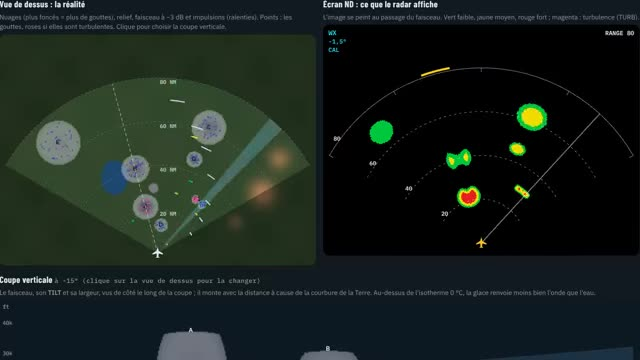
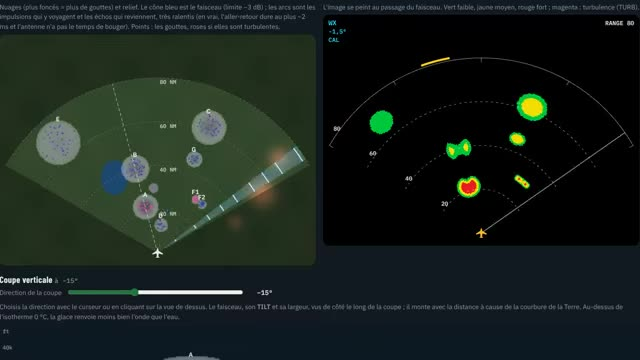
Radar météo : impulsions dans le faisceau, et passe de qualité
Les impulsions (ralenties) restaient derrière l'antenne, hors du
faisceau : elles suivent maintenant le faisceau actuel et leurs échos
viennent de ce qu'il éclaire. Faisceau seulement en émission (message en
STBY et TEST) ; curseur de direction de la coupe (clavier) ; noms des
cellules au-dessus d'elles ; coupe lisible en thème clair, faisceau
arrêté au sol ; carte de l'écho calculée 3 fois par seconde. Aperçu
refait.

Claude-Session: https://claude.ai/code/session_01JwBhEaeajJJxZP6WL7ckMR

diff --git a/radar-meteo.html b/radar-meteo.html
@@ -71,6 +71,8 @@ html.light .boitier{background:linear-gradient(180deg,#2a333b,#1b2228)}
 #plan{height:440px;border-radius:12px;background:#0b141b;cursor:crosshair}
 #nd{height:440px;border-radius:12px;background:#000}
 #coupe{height:300px;border-radius:12px;background:#0b141b}
+.coupe-reg{display:grid;grid-template-columns:auto 1fr auto;align-items:center;gap:10px;max-width:520px;margin:2px 0 8px;font-size:12.5px;color:var(--muted)}
+.coupe-reg input{accent-color:var(--c)}.coupe-reg output{font:600 12.5px var(--f-mono);color:var(--text);min-width:44px;text-align:right}
 .legende{display:flex;flex-wrap:wrap;gap:4px 14px;margin-top:6px;font-size:12.5px;color:var(--muted)}
 .legende i{display:inline-block;width:11px;height:11px;border-radius:3px;background:var(--k);margin-right:5px;vertical-align:-1px}
 .cartes{display:grid;grid-template-columns:repeat(auto-fit,minmax(min(100%,220px),1fr));gap:8px;margin-top:12px}
@@ -146,13 +148,14 @@ table.t td.n{font-family:var(--f-mono);text-align:right}
   </div>
 
   <div class="vues">
-    <div class="vue"><h3>Vue de dessus : la réalité</h3><p>Nuages (plus foncés = plus de gouttes), relief, faisceau à −3 dB et impulsions (ralenties). Points : les gouttes, roses si elles sont turbulentes. Clique pour choisir la coupe verticale.</p>
+    <div class="vue"><h3>Vue de dessus : la réalité</h3><p>Nuages (plus foncés = plus de gouttes) et relief. Le cône bleu est le faisceau (limite −3 dB) ; les arcs sont les impulsions qui y voyagent et les échos qui reviennent, très ralentis (en vrai, l'aller-retour dure au plus ~2 ms et l'antenne n'a pas le temps de bouger). Points : les gouttes, roses si elles sont turbulentes.</p>
       <canvas id="plan" aria-label="Vue de dessus : cellules orageuses, relief, faisceau et impulsions"></canvas></div>
     <div class="vue"><h3>Écran ND : ce que le radar affiche</h3><p>L'image se peint au passage du faisceau. Vert faible, jaune moyen, rouge fort ; magenta : turbulence (TURB).</p>
       <canvas id="nd" aria-label="Écran de navigation avec l'image radar"></canvas></div>
   </div>
   <div class="vue" style="margin-top:14px"><h3>Coupe verticale <span id="coupeLib" style="font:500 12px var(--f-mono);color:var(--muted)"></span></h3>
-    <p>Le faisceau, son <b>TILT</b> et sa largeur, vus de côté le long de la coupe ; il monte avec la distance à cause de la courbure de la Terre. Au-dessus de l'isotherme 0 °C, la glace renvoie moins bien l'onde que l'eau.</p>
+    <div class="coupe-reg"><span>Direction de la coupe</span><input type="range" id="coupeR" min="-60" max="60" step="1" value="-15" aria-label="Direction de la coupe verticale, en degrés"><output id="coupeV">−15°</output></div>
+    <p>Choisis la direction avec le curseur ou en cliquant sur la vue de dessus. Le faisceau, son <b>TILT</b> et sa largeur, vus de côté le long de la coupe ; il monte avec la distance à cause de la courbure de la Terre. Au-dessus de l'isotherme 0 °C, la glace renvoie moins bien l'onde que l'eau.</p>
     <canvas id="coupe" aria-label="Coupe verticale : avion, faisceau, cellules et relief"></canvas>
     <div class="legende"><span><i style="--k:#00c83c"></i>faible</span><span><i style="--k:#f0dc00"></i>moyen</span><span><i style="--k:#e61e1e"></i>fort</span><span><i style="--k:#e600e6"></i>turbulence</span><span><i style="--k:#7dd3fc"></i>faisceau (−3 dB)</span></div>
   </div>
@@ -381,7 +384,7 @@ function niveaux(o) {
 
 /* ---------- l'image de l'écran : grille polaire peinte au passage du faisceau ---------- */
 let img = [new Uint8Array(NAZ * NB), new Uint8Array(NAZ * NB)], pac = [new Uint8Array(NAZ), new Uint8Array(NAZ)];
-let azAnt = -60, sens = 1, passe = 0, dernierRayon = null, dernierAz = null;
+let azAnt = -60, sens = 1, passe = 0, dernierRayon = null, dernierAz = null, dernierL = null;
 function effacer() { img = [new Uint8Array(NAZ * NB), new Uint8Array(NAZ * NB)]; pac = [new Uint8Array(NAZ), new Uint8Array(NAZ)]; }
 function peindre(az) {
   const i = Math.round((az + 60) / DAZ); if (i < 0 || i >= NAZ) return;
@@ -390,17 +393,20 @@ function peindre(az) {
   if (st.mode === 'test') { for (let k = 0; k < NB; k++) cible[i * NB + k] = 1 + Math.min(3, Math.floor(k / (NB / 4))); return; }
   const o = rayon(az, elevation(az, p)), { L, pacAlerte } = niveaux(o);
   cible.set(L, i * NB); pac[p][i] = pacAlerte ? 1 : 0;
+  dernierRayon = o; dernierAz = az; dernierL = L;
 }
 const emet = () => ['wx', 'turb', 'map'].includes(st.mode);
 
 /* ---------- impulsions et échos (vue de dessus, très ralentis) ---------- */
 let impulsions = [], tImp = 0, horloge = 0;
 const VP = () => st.range / 1.6;                     // NM par seconde d'animation
-function emettre() {
-  const o = rayon(azAnt, elevation(azAnt, passe % 2)), { L } = niveaux(o), dr = st.range / NB, echos = [];
+// En vrai, un aller-retour dure au plus ~2 ms : l'antenne n'a pas le temps de tourner (0,05°). Ici les impulsions sont
+// très ralenties ; pour rester juste, elles restent dans le faisceau actuel et leurs échos viennent de ce qu'il éclaire.
+function emettre() { impulsions.push({ t0: horloge }); }
+function echosActuels() {
+  const L = dernierL, dr = st.range / NB, echos = []; if (!L) return echos;
   for (let k = 0; k < NB; k++) if (L[k] && (k === 0 || !L[k - 1])) { let m = 0; for (let j = k; j < NB && L[j]; j++) m = Math.max(m, L[j]); echos.push({ r: (k + .5) * dr, n: m }); }
-  impulsions.push({ t0: horloge, az: azAnt, o, echos });
-  dernierRayon = o; dernierAz = azAnt;
+  return echos;
 }
 
 /* ---------- gouttelettes (effet Doppler) ---------- */
@@ -464,28 +470,28 @@ function dessinerPlan() {
   for (let k = 1; k <= 4; k++) x.fillText(`${nf(R * k / 4)} NM`, cx + 4, cy - R * s * k / 4 + 12);
   // noms des cellules et du relief
   x.font = '700 12px "IBM Plex Sans",sans-serif';
-  for (const c of CELLS) { const px = cx + c.x * s, py = cy - c.y * s; if (c.r <= R * 1.05) { x.fillStyle = '#0b141b'; x.fillText(c.nom, px - 4, py + 4); } }
+  x.textAlign = 'center'; for (const c of CELLS) { const px = cx + c.x * s, py = cy - c.y * s; if (c.r <= R * 1.05) { x.fillStyle = 'rgba(255,255,255,.92)'; x.fillText(c.nom, px, py - Math.max(6, c.R * s * .8) - 3); } } x.textAlign = 'left';
   // gouttelettes : calmes (toutes dans le même sens) ou turbulentes (en tous sens)
   if (s > 2.5) { for (const g of gouttes) { const px = cx + (g.c.x + g.dx) * s, py = cy - (g.c.y + g.dy) * s; x.fillStyle = g.c.turb ? 'rgba(236,72,153,.9)' : 'rgba(30,64,175,.75)'; x.fillRect(px - 1.2, py - 1.2, 2.4, 2.4); } }
   // coupe verticale
   x.strokeStyle = 'rgba(255,255,255,.65)'; x.setLineDash([6, 4]); x.beginPath(); x.moveTo(cx, cy); x.lineTo(cx + Math.sin(st.coupe * deg) * R * s, cy - Math.cos(st.coupe * deg) * R * s); x.stroke(); x.setLineDash([]);
-  // faisceau : cône à −3 dB, qui pâlit derrière les cellules (puissance réfractée)
-  if (emet() || st.mode === 'test') {
-    const o = dernierRayon && dernierAz !== null && Math.abs(dernierAz - azAnt) < 3 ? dernierRayon : null, dr = R / NB;
-    for (let k = 0; k < NB; k += 2) {
-      const a0 = -Math.PI / 2 + (azAnt - b / 2) * deg, a1 = -Math.PI / 2 + (azAnt + b / 2) * deg;
-      const reste = st.mode === 'test' ? 0 : o ? Math.max(0, 10 ** (-Math.min(o.att[k], 60) / 20) * (o.bloque >= 0 && k > o.bloque ? 0 : 1)) : 1;
-      x.fillStyle = `rgba(125,211,252,${(st.mode === 'test' ? .05 : .28 * reste).toFixed(3)})`;
-      x.beginPath(); x.arc(cx, cy, (k + 2) * dr * s, a0, a1); x.arc(cx, cy, k * dr * s, a1, a0, true); x.closePath(); x.fill();
-    }
+  // faisceau : cône à −3 dB (seulement en émission), qui pâlit derrière les cellules (puissance réfractée)
+  const o = emet() && dernierRayon && Math.abs(dernierAz - azAnt) < 3 ? dernierRayon : null, dr = R / NB;
+  const a0 = -Math.PI / 2 + (azAnt - b / 2) * deg, a1 = -Math.PI / 2 + (azAnt + b / 2) * deg;
+  const resteA = k => o ? Math.max(0, 10 ** (-Math.min(o.att[k], 60) / 20) * (o.bloque >= 0 && k > o.bloque ? 0 : 1)) : 1;
+  if (emet()) for (let k = 0; k < NB; k += 2) {
+    x.fillStyle = `rgba(125,211,252,${(.28 * resteA(k)).toFixed(3)})`;
+    x.beginPath(); x.arc(cx, cy, (k + 2) * dr * s, a0, a1); x.arc(cx, cy, k * dr * s, a1, a0, true); x.closePath(); x.fill();
   }
-  // impulsions qui partent (bleu clair) et échos qui reviennent (couleur de l'écho)
+  // impulsions qui partent (bleu clair) et échos qui reviennent (couleur de l'écho), dans le faisceau
+  const echos = emet() ? echosActuels() : [];
   for (const p of impulsions) {
-    const r = VP() * (horloge - p.t0), a0 = -Math.PI / 2 + (p.az - b / 2) * deg, a1 = -Math.PI / 2 + (p.az + b / 2) * deg;
-    if (r < R) { const k = Math.min(NB - 1, Math.floor(r / R * NB)); const reste = Math.max(.06, 10 ** (-Math.min(p.o.att[k], 60) / 20)) * (p.o.bloque >= 0 && k > p.o.bloque ? 0 : 1);
-      x.strokeStyle = `rgba(186,230,253,${reste.toFixed(2)})`; x.lineWidth = 2.2; x.beginPath(); x.arc(cx, cy, r * s, a0, a1); x.stroke(); }
-    for (const e of p.echos) { const re = 2 * e.r - r; if (re > 0 && re < e.r) { x.strokeStyle = rgb(e.n, .95); x.lineWidth = 2.6; x.beginPath(); x.arc(cx, cy, re * s, a0 + .02, a1 - .02); x.stroke(); } }
+    const r = VP() * (horloge - p.t0);
+    if (r < R) { const k = Math.min(NB - 1, Math.floor(r / R * NB)); x.strokeStyle = `rgba(186,230,253,${Math.max(.06, resteA(k)).toFixed(2)})`; x.lineWidth = 2.2; x.beginPath(); x.arc(cx, cy, r * s, a0, a1); x.stroke(); }
+    for (const e of echos) { const re = 2 * e.r - r; if (re > 0 && re < e.r) { x.strokeStyle = rgb(e.n, .95); x.lineWidth = 2.6; x.beginPath(); x.arc(cx, cy, re * s, a0 + .02, a1 - .02); x.stroke(); } }
   }
+  if (!emet()) { x.font = '700 13px "IBM Plex Sans",sans-serif'; x.fillStyle = '#fbbf24'; x.textAlign = 'center';
+    x.fillText({ off: 'Radar éteint', stby: 'STBY : pas d’émission, antenne immobile', test: 'TEST : l’antenne balaie, sans émettre' }[st.mode], cx, 22); x.textAlign = 'left'; }
   // l'avion
   avionHaut(x, cx, cy, '#e2e8f0');
 }
@@ -573,44 +579,50 @@ function dessinerCoupe() {
   const cle = `${W}x${H}:${R}:${st.coupe}:${K.clair}`; if (cle !== cleCoupe) { fondCoupe = calcFondCoupe(W, H); cleCoupe = cle; }
   x.fillStyle = K.clair ? '#d2e4f0' : '#0c1822'; x.fillRect(0, 0, W, H);
   x.drawImage(fondCoupe, 0, 0, W, H);
+  x.fillStyle = K.panel2; x.fillRect(0, G.bas + 1, W, H - G.bas);   // bande des graduations, lisible dans les deux thèmes
   // axes
   x.fillStyle = K.muted; x.font = '500 10.5px "IBM Plex Mono",monospace'; x.strokeStyle = K.line2; x.lineWidth = 1;
   for (const a of [0, 10000, 20000, 30000, 40000]) { x.fillText(a ? `${a / 1000}k` : '0', 6, G.Y(a) + 4); x.globalAlpha = .4; x.setLineDash([2, 5]); x.beginPath(); x.moveTo(G.g, G.Y(a)); x.lineTo(W - G.d, G.Y(a)); x.stroke(); x.setLineDash([]); x.globalAlpha = 1; }
   x.textAlign = 'center'; for (let k = 0; k <= 4; k++) x.fillText(`${nf(R * k / 4)} NM`, Math.min(W - 30, Math.max(G.g + 10, G.X(R * k / 4))), H - 8); x.textAlign = 'left';
   x.fillText('ft', 6, G.h + 2);
   // isotherme 0 °C
-  x.strokeStyle = '#7dd3fc'; x.globalAlpha = .6; x.setLineDash([8, 5]); x.beginPath(); x.moveTo(G.g, G.Y(ISO0)); x.lineTo(W - G.d, G.Y(ISO0)); x.stroke(); x.setLineDash([]); x.globalAlpha = 1;
-  x.fillStyle = '#7dd3fc'; x.fillText('isotherme 0 °C', W - G.d - 100, G.Y(ISO0) - 4);
+  const bleu = K.clair ? '#0369a1' : '#7dd3fc';
+  x.strokeStyle = bleu; x.globalAlpha = .7; x.setLineDash([8, 5]); x.beginPath(); x.moveTo(G.g, G.Y(ISO0)); x.lineTo(W - G.d, G.Y(ISO0)); x.stroke(); x.setLineDash([]); x.globalAlpha = 1;
+  x.fillStyle = bleu; x.fillText('isotherme 0 °C', W - G.d - 100, G.Y(ISO0) - 4);
   // noms des cellules sur la coupe
   x.font = '700 12px "IBM Plex Sans",sans-serif'; x.fillStyle = K.clair ? '#0f172a' : '#e2e8f0';
   for (const c of CELLS) { const da = Math.abs(((c.az - st.coupe + 540) % 360) - 180); const perp = c.r * Math.sin(da * deg); if (perp < c.R * 1.1 && c.r < R) x.fillText(c.nom, G.X(c.r * Math.cos(da * deg)) - 5, G.Y(c.sommet) - 5); }
   // faisceau : centre et bords à −3 dB, courbes (Terre ronde) ; plus vif quand l'antenne passe par la coupe
-  if (emet() || st.mode === 'test' || st.mode === 'stby') {
+  x.save(); x.beginPath(); x.rect(0, 0, W, G.bas); x.clip();   // le faisceau s'arrête au sol
+  if (emet()) {
     const p = st.tiltMode === 'multi' && st.mode !== 'map' ? [0, 1] : [0], actif = Math.abs(azAnt - st.coupe) < b / 2 + 1 && emet();
     for (const pp of p) {
       const el = elevation(st.coupe, pp), ligne = (e, k) => { const r = R * k / 60; return [G.X(r), G.Y(st.alt + r * NM_FT * Math.tan(e * deg) + drop(r))]; };
       x.beginPath(); for (let k = 0; k <= 60; k++) { const [px, py] = ligne(el + b / 2, k); k ? x.lineTo(px, py) : x.moveTo(px, py); }
       for (let k = 60; k >= 0; k--) { const [px, py] = ligne(el - b / 2, k); x.lineTo(px, py); } x.closePath();
-      x.fillStyle = `rgba(125,211,252,${actif ? .32 : .14})`; x.fill();
-      x.strokeStyle = '#7dd3fc'; x.lineWidth = 1.2; x.setLineDash([5, 4]); x.beginPath(); for (let k = 0; k <= 60; k++) { const [px, py] = ligne(el, k); k ? x.lineTo(px, py) : x.moveTo(px, py); } x.stroke(); x.setLineDash([]);
+      x.fillStyle = K.clair ? `rgba(2,132,199,${actif ? .3 : .14})` : `rgba(125,211,252,${actif ? .32 : .14})`; x.fill();
+      x.strokeStyle = bleu; x.lineWidth = 1.2; x.setLineDash([5, 4]); x.beginPath(); for (let k = 0; k <= 60; k++) { const [px, py] = ligne(el, k); k ? x.lineTo(px, py) : x.moveTo(px, py); } x.stroke(); x.setLineDash([]);
     }
   }
+  x.restore();
   // l'avion (de côté)
   const ay = G.Y(st.alt); x.fillStyle = K.clair ? '#0f172a' : '#e2e8f0';
   x.beginPath(); x.moveTo(G.g - 30, ay - 2); x.lineTo(G.g + 4, ay - 2); x.quadraticCurveTo(G.g + 12, ay, G.g + 4, ay + 2); x.lineTo(G.g - 30, ay + 2); x.closePath(); x.fill();
   x.beginPath(); x.moveTo(G.g - 28, ay - 2); x.lineTo(G.g - 34, ay - 10); x.lineTo(G.g - 24, ay - 2); x.fill();
   x.font = '600 11px "IBM Plex Mono",monospace'; x.fillText(`${nf(st.alt)} ft`, G.g + 10, ay - 8);
-  $('#coupeLib').textContent = `à ${st.coupe >= 0 ? '+' : ''}${nf(st.coupe)}° (clique sur la vue de dessus pour la changer)`;
+  $('#coupeLib').textContent = `à ${st.coupe > 0 ? '+' : st.coupe < 0 ? '−' : ''}${Math.abs(st.coupe)}°`;
 }
 
 /* ---------- cartes ---------- */
 const cache = new Map();
+let coupeCache = null;
 function html(sel, h) { if (cache.get(sel) !== h) { cache.set(sel, h); $(sel).innerHTML = h; } }
 function majCartes() {
   const b = largeur(), l = R => 2 * R * NM_FT * Math.tan(b / 2 * deg);
-  let echo = '—', echoD = 'aucun écho dans la coupe';
+  let echo = '—', echoD = emet() ? 'aucun écho dans la coupe' : 'pas d’émission';
   if (emet()) {
-    const o = rayon(st.coupe, elevation(st.coupe, 0)), { L } = niveaux(o), k = L.findIndex(n => n > 0);
+    if (!coupeCache || horloge - coupeCache.t > .33) coupeCache = { t: horloge, L: niveaux(rayon(st.coupe, elevation(st.coupe, 0))).L };
+    const L = coupeCache.L, k = L.findIndex(n => n > 0);
     if (k >= 0) { const r = (k + .5) * st.range / NB; echo = `${nf(r, 1)} NM`; echoD = `aller-retour ${nf(r * US_NM, 0)} µs (12,359 µs par NM)`; }
   }
   html('#cartes', `<div class="carte"><span>Faisceau</span><b>${nf(b, 1)}°</b><small>antenne ${st.diam}″ ; à 25 NM : ${nf(l(25), 0)} ft de large, à 50 NM : ${nf(l(50), 0)} ft</small></div>`
@@ -677,8 +689,10 @@ $('#roulis').oninput = e => { st.roulis = +e.target.value; majTextes(); };
 $('#plan').addEventListener('click', e => {
   const r = $('#plan').getBoundingClientRect(), { cx, cy } = geo(r.width, r.height);
   const az = Math.atan2(e.clientX - r.left - cx, cy - (e.clientY - r.top)) / deg;
-  st.coupe = Math.round(Math.max(-60, Math.min(60, az)));
+  regCoupe(Math.round(Math.max(-60, Math.min(60, az))));
 });
+function regCoupe(v) { st.coupe = v; coupeCache = null; $('#coupeR').value = v; $('#coupeV').textContent = `${v > 0 ? '+' : v < 0 ? '−' : ''}${Math.abs(v)}°`; }
+$('#coupeR').oninput = e => regCoupe(+e.target.value);
 // tableau : largeur du faisceau selon l'antenne et la distance
 $('#tFaisceau').innerHTML = '<tr><th>Antenne</th><th>Faisceau</th><th>à 25 NM</th><th>à 50 NM</th></tr>'
   + [12, 18, 24, 30].map(d => { const b = 96 / d, l = R => 2 * R * NM_FT * Math.tan(b / 2 * deg); return `<tr><td>${d}″</td><td class="n">${nf(b, 1)}°</td><td class="n">${nf(l(25), 0)} ft</td><td class="n">${nf(l(50), 0)} ft</td></tr>`; }).join('');

diff --git a/docs/autres-pages.md b/docs/autres-pages.md
@@ -38,7 +38,7 @@ Pages plus simples, chacune avec son HTML, son JS et sa permission. Le schéma c
 - **Radar météo** (`radar-meteo.html`, tout dans la page, permission `radar-meteo`, groupe « Avionique » d'Informatique, après Radio-altimètre ; 10 novembre 2026, demande de l'utilisateur : « on fait le radar météo », d'après les sous-modules 6.1 « Principes et équipements » et 6.2 « Utilisations et tests », collés dans la conversation ; simulation au premier plan, explications repliées, comme la page Radio-altimètre).
   - Le monde : cellules `CELLS` (A forte et turbulente à 22 NM, B derrière A pour l'ombre radar, C lointaine pour le STC avec G devant elle pour le PAC, D basse sous l'avion pour le TILT, E faible et étendue, F1 et F2 proches pour la résolution d'azimut), réflectivité en dBZ plus forte au tiers inférieur, réduite au-dessus de l'isotherme 0 °C (14 000 ft, glace) ; relief `terrain()` (sol, montagnes, ville, lac sans écho) ; humidité de l'air (bruit lissé, visible seulement avec beaucoup de GAIN) ; Terre ronde (rayon 4/3) : le faisceau monte avec la distance.
   - Le radar : faisceau de 96/D degrés (12″ ≈ 8°, 18″ ≈ 5,3°, 24″ = 4°, 30″ ≈ 3,2°), échantillonné en 3 × 5 points pondérés (−3 dB aux bords) ; `rayon()` donne pour 160 cases de distance la réflectivité de la météo et du sol, l'atténuation aller-retour dans la pluie et le blocage par le relief ; `niveaux()` applique la sensibilité du récepteur, le PAC (jusqu'à 12 dB, au-delà ombre radar et trait jaune au bord de l'écran), le STC (sans STC : −20·log(r/10 NM)), le GAIN (CAL ou ±12 dB), le GCS, et les seuils (vert 20, jaune 30, rouge 40 dBZ ; TURB : magenta dans les cœurs turbulents à moins de 40 NM ; MAP : seuils du sol). L'antenne balaie ±60° à 25°/s (×0,5 à ×4) et peint une grille polaire (0,5° × 160) ; l'écran ND la rend par une table pixel → case. TILT manuel, AUTO (bord inférieur du faisceau au sol à la portée), MULTISCAN (deux angles alternés, images fusionnées, GCS compris) ; MAP abaisse le TILT ; STAB OFF : le roulis incline le plan de balayage. Modes OFF, STBY, TEST (patron de bandes, sans émission), WX, TURB, MAP.
-  - Vues : vue de dessus (la réalité : nuages en gris, relief, gouttes calmes ou turbulentes, faisceau qui pâlit derrière les cellules, impulsions et échos ralentis ; un clic choisit la coupe), écran ND, coupe verticale (faisceau et ses bords à −3 dB, isotherme 0 °C), cartes (faisceau, TILT, premier écho et aller-retour à 12,359 µs/NM, antenne).
+  - Vues : vue de dessus (la réalité : nuages en gris, relief, gouttes calmes ou turbulentes, faisceau qui pâlit derrière les cellules, impulsions et échos ralentis ; un clic choisit la coupe). Les impulsions restent dans le faisceau actuel et leurs échos viennent du dernier rayon peint (`dernierL`, `echosActuels`) : en vrai l'aller-retour dure au plus ~2 ms et l'antenne ne bouge pas pendant ce temps (11 novembre 2026 : l'utilisateur voyait des arcs hors du faisceau, laissés derrière par l'antenne). Faisceau, impulsions et faisceau de la coupe seulement en émission (WX, TURB, MAP) ; en STBY ou TEST, un message le dit. Curseur « Direction de la coupe » (clavier), synchronisé avec le clic, écran ND, coupe verticale (faisceau et ses bords à −3 dB, isotherme 0 °C), cartes (faisceau, TILT, premier écho et aller-retour à 12,359 µs/NM, antenne).
   - Sections repliées : ce que le radar calcule (STC, PAC), faisceau et résolution (tableau de largeur selon l'antenne), contrôles et modes, Doppler et PWS, antenne/radôme/guide d'onde, tests et sécurité, caractéristiques (RDR2100 et transpondeur). Images du cours (46 JPG des sous-modules 6.1 et 6.2, envoyées par la session locale de Frank) : sur le serveur seulement, `etape6/cours2/m6/fichiers/images/`, servies par `api/cours.php`, jamais dans le dépôt ; chaque section liste les siennes (`data-images`), chargées à l'ouverture, en `loading="lazy"`, seulement pour l'admin et la permission `aec-avionique` ; une image absente est retirée.
   - Écarts avec le cours (signalés à l'utilisateur) : 9 375 MHz est en bande X (SHF), pas UHF ; la largeur d'impulsion du RDR2100 est de 4 µs, pas 4 ms ; « un test du RADALT » dans l'auto-test est une coquille pour radar météo ; l'exemple 18″ → 7 400 ft à 25 NM correspond à un faisceau d'environ 2,8°, alors que la page prend 96/D (≈ 5,3° pour 18″, l'image du cours dit 6°).
 - **Courant triphasé** (`triphase.html`, tout dans la page, permission `triphase`, groupe « Circuits » d'Informatique ; 7 novembre 2026, demande de l'utilisateur : comprendre le triphasé, en insistant sur les mesures et les relations, bien animé). Sources : avion 115/200 V 400 Hz, bâtiment 120/208 V 60 Hz, industriel 347/600 V 60 Hz. Alternateur en étoile ; charge en étoile avec neutre, sans neutre (déplacement du neutre V_N'N calculé) ou en triangle ; impédance et déphasage φ (capacitif à inductif), charge déséquilibrée (Z de chaque élément) et élément C ouvert. Calcul par phaseurs (complexes) : courants de ligne et d'élément, I_N, P, Q, S, FP, deux wattmètres (W₁ : I_A et V_AC ; W₂ : I_B et V_BC).
